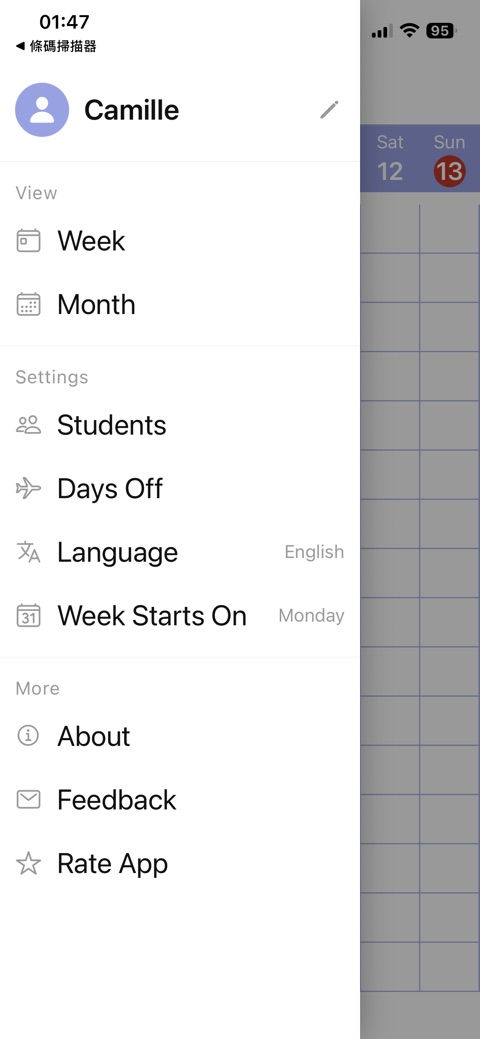
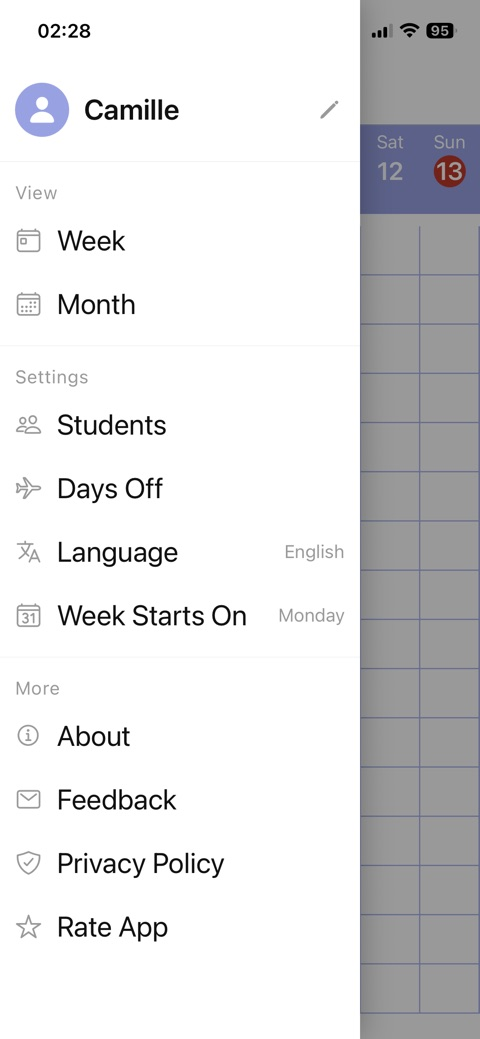
更新選單截圖，補上隱私政策項目
3.jpg（zh/en）換成新拍的選單畫面，更多分組多了隱私政策；index.html/en.html 的選單條列文字同步補上這一項。

diff --git a/index.html b/index.html
@@ -143,7 +143,7 @@
             <ul>
               <li><strong>顯示方式</strong>：切換「週」或「月」檢視</li>
               <li><strong>設定</strong>：學生、教練休假日、語言、一週的第一天</li>
-              <li><strong>更多</strong>：介紹、意見信箱、評價 APP</li>
+              <li><strong>更多</strong>：介紹、意見信箱、隱私政策、評價 APP</li>
             </ul>
           </div>
         </div>

diff --git a/en.html b/en.html
@@ -143,7 +143,7 @@
             <ul>
               <li><strong>View</strong>: switch between Week or Month</li>
               <li><strong>Settings</strong>: Students, Days Off, Language, Week Starts On</li>
-              <li><strong>More</strong>: About, Feedback, Rate App</li>
+              <li><strong>More</strong>: About, Feedback, Privacy Policy, Rate App</li>
             </ul>
           </div>
         </div>
